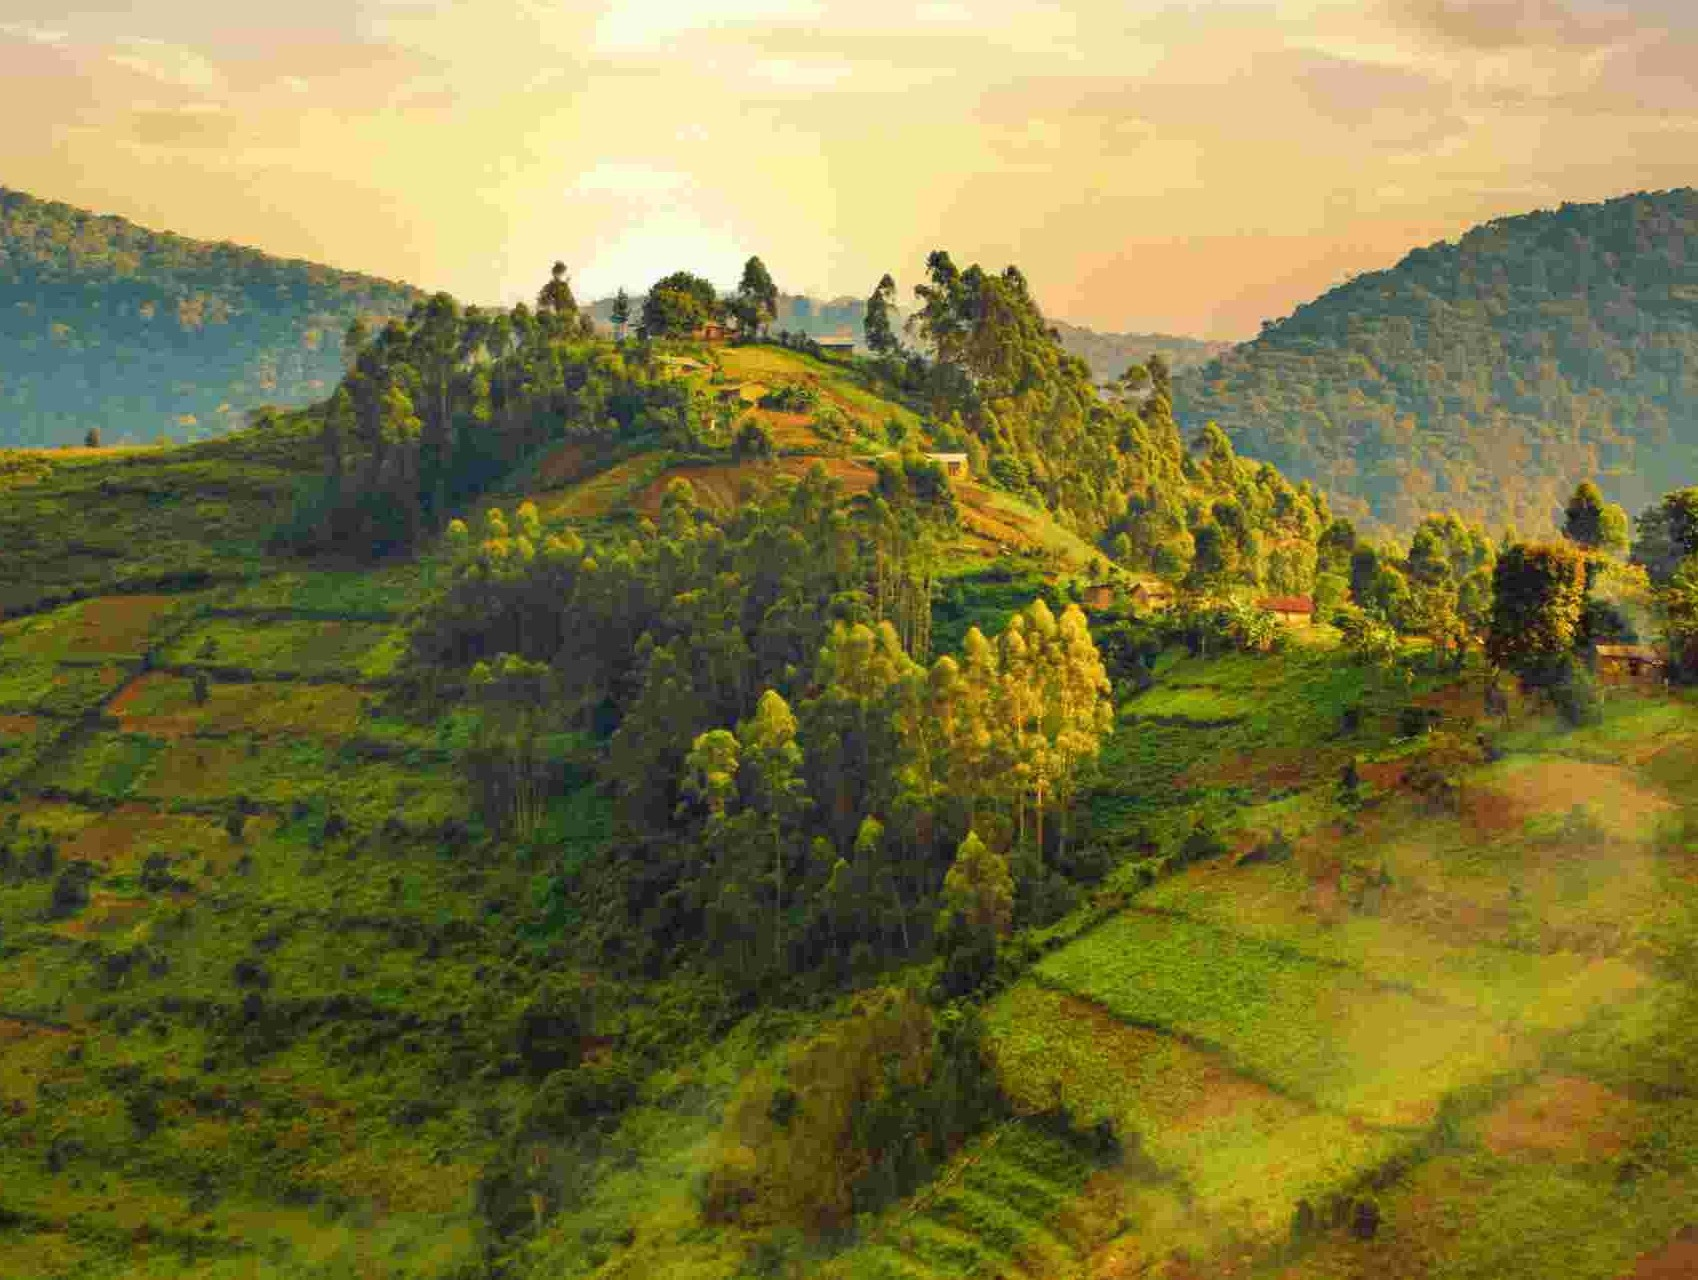
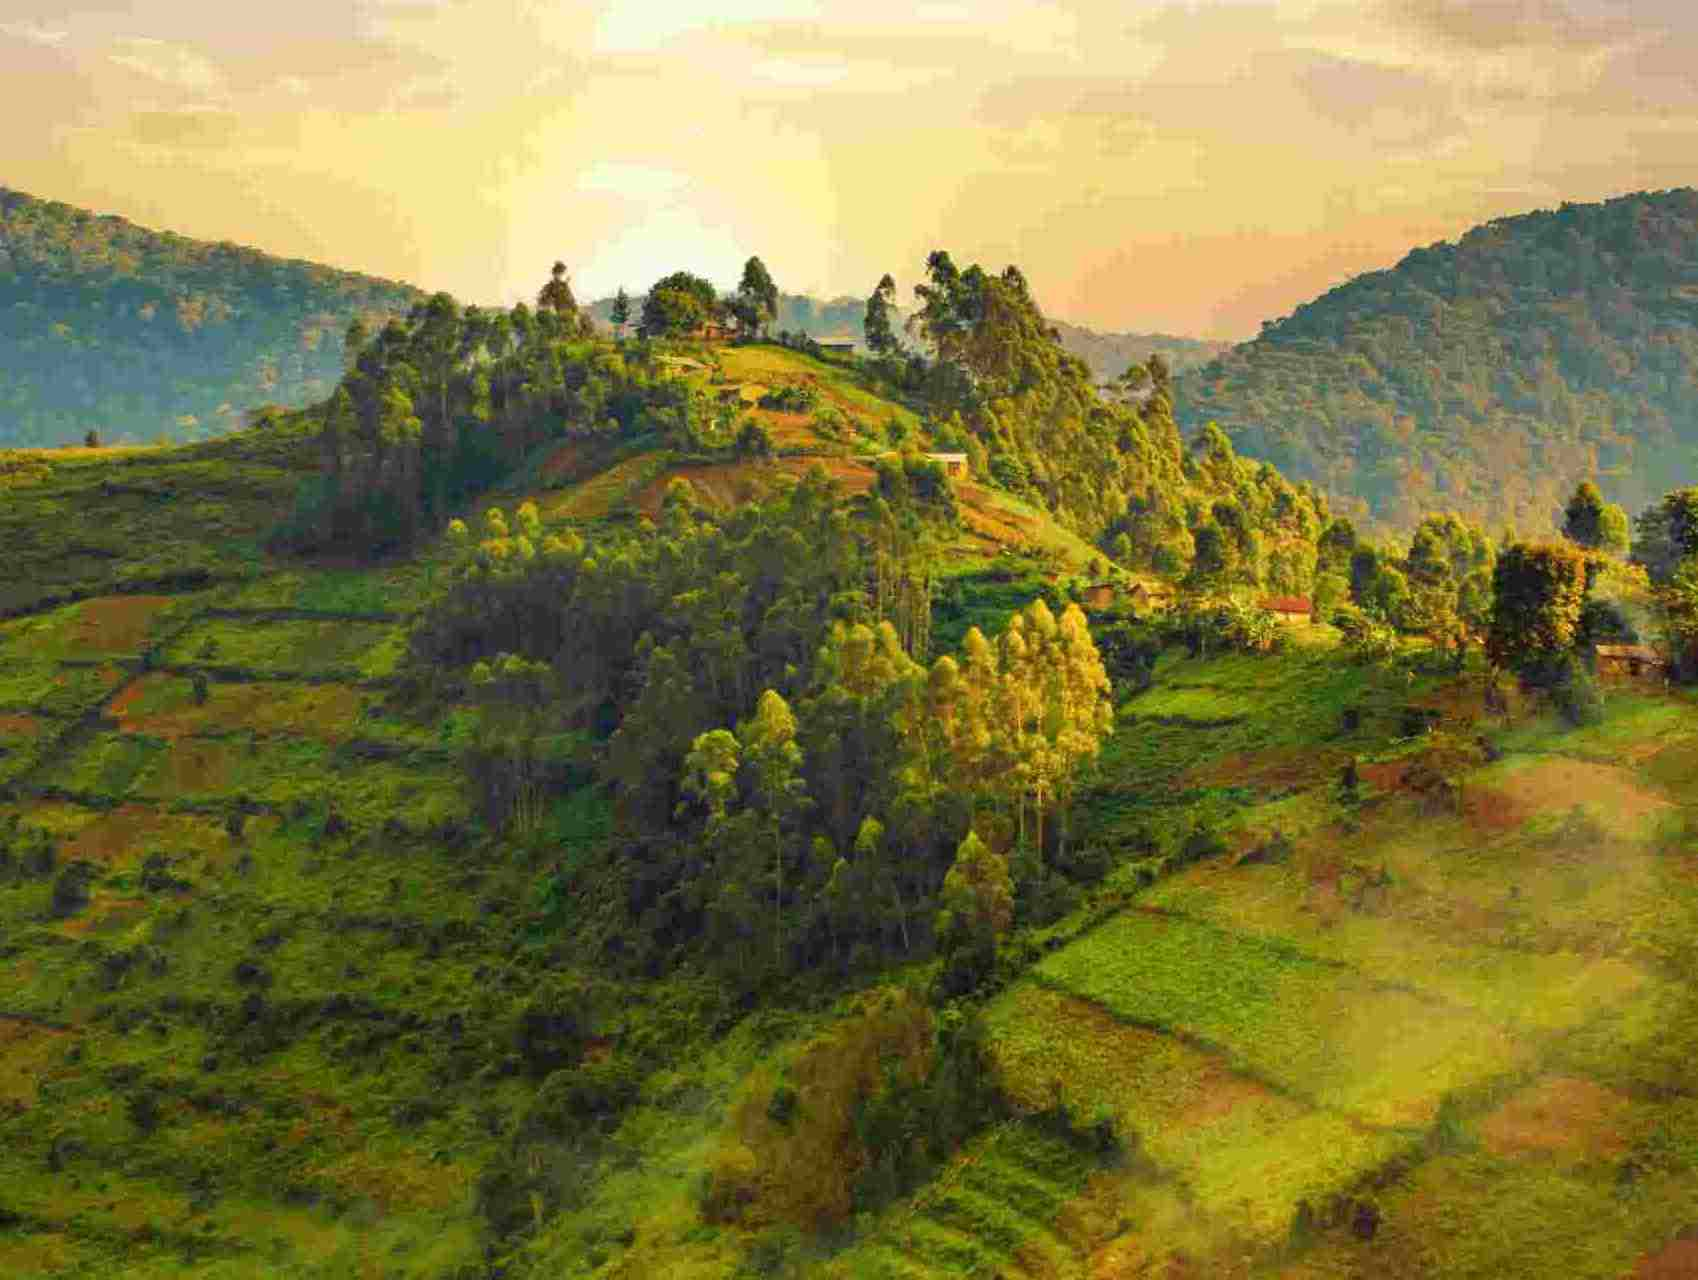
textContent

diff --git a/place.html b/place.html
@@ -1,11 +1,21 @@
 <!DOCTYPE html>
 <html lang="en">
 <head>
-  <meta charset="UTF-8" />
-  <meta name="viewport" content="width=device-width, initial-scale=1.0" />
-  <title>Explore Norway</title>
+  <meta charset="UTF-8">
+  <meta name="viewport" content="width=device-width, initial-scale=1.0">
+  <meta name="description" content="Exploring Uganda Page">
+  <meta name="author" content="Sekirangi Edward">
+
+<!-- Meta and facebook debugging -->
+  <meta property="og:title" content="Exploring Uganda page">
+  <meta property="og:type" content="website">
+  <meta property="og:image" content="https://edwardsekirangi.github.io/wdd231/chamber/images">
+  <meta property="og:url" content="https://edwardsekirangi.github.io/wdd231/chamber/index.html">
+  <meta property="og:description" content="Explore Uganda Page">
+  <meta property="og:site_name" content="Exploring Uganda Page">
   <link rel="stylesheet" href="styles/place.css" />
   <script src="scripts/place.js" defer></script>
+  <title>Welcome to Uganda</title>
 </head>
 <body>
   <header>
@@ -15,8 +25,8 @@
   <main>
     <section class="hero">
       <picture>
-        <source srcset="images/hero-large.jpg" media="(min-width: 600px)" />
-        <img src="images/hero-small.jpg" alt="Scenic view of Norway" />
+        <source srcset="images/hero-large.webp" media="(min-width: 600px)" />
+        <img src="images/hero-small.webp" alt="Scenic view of Norway" />
       </picture>
     </section>
 
